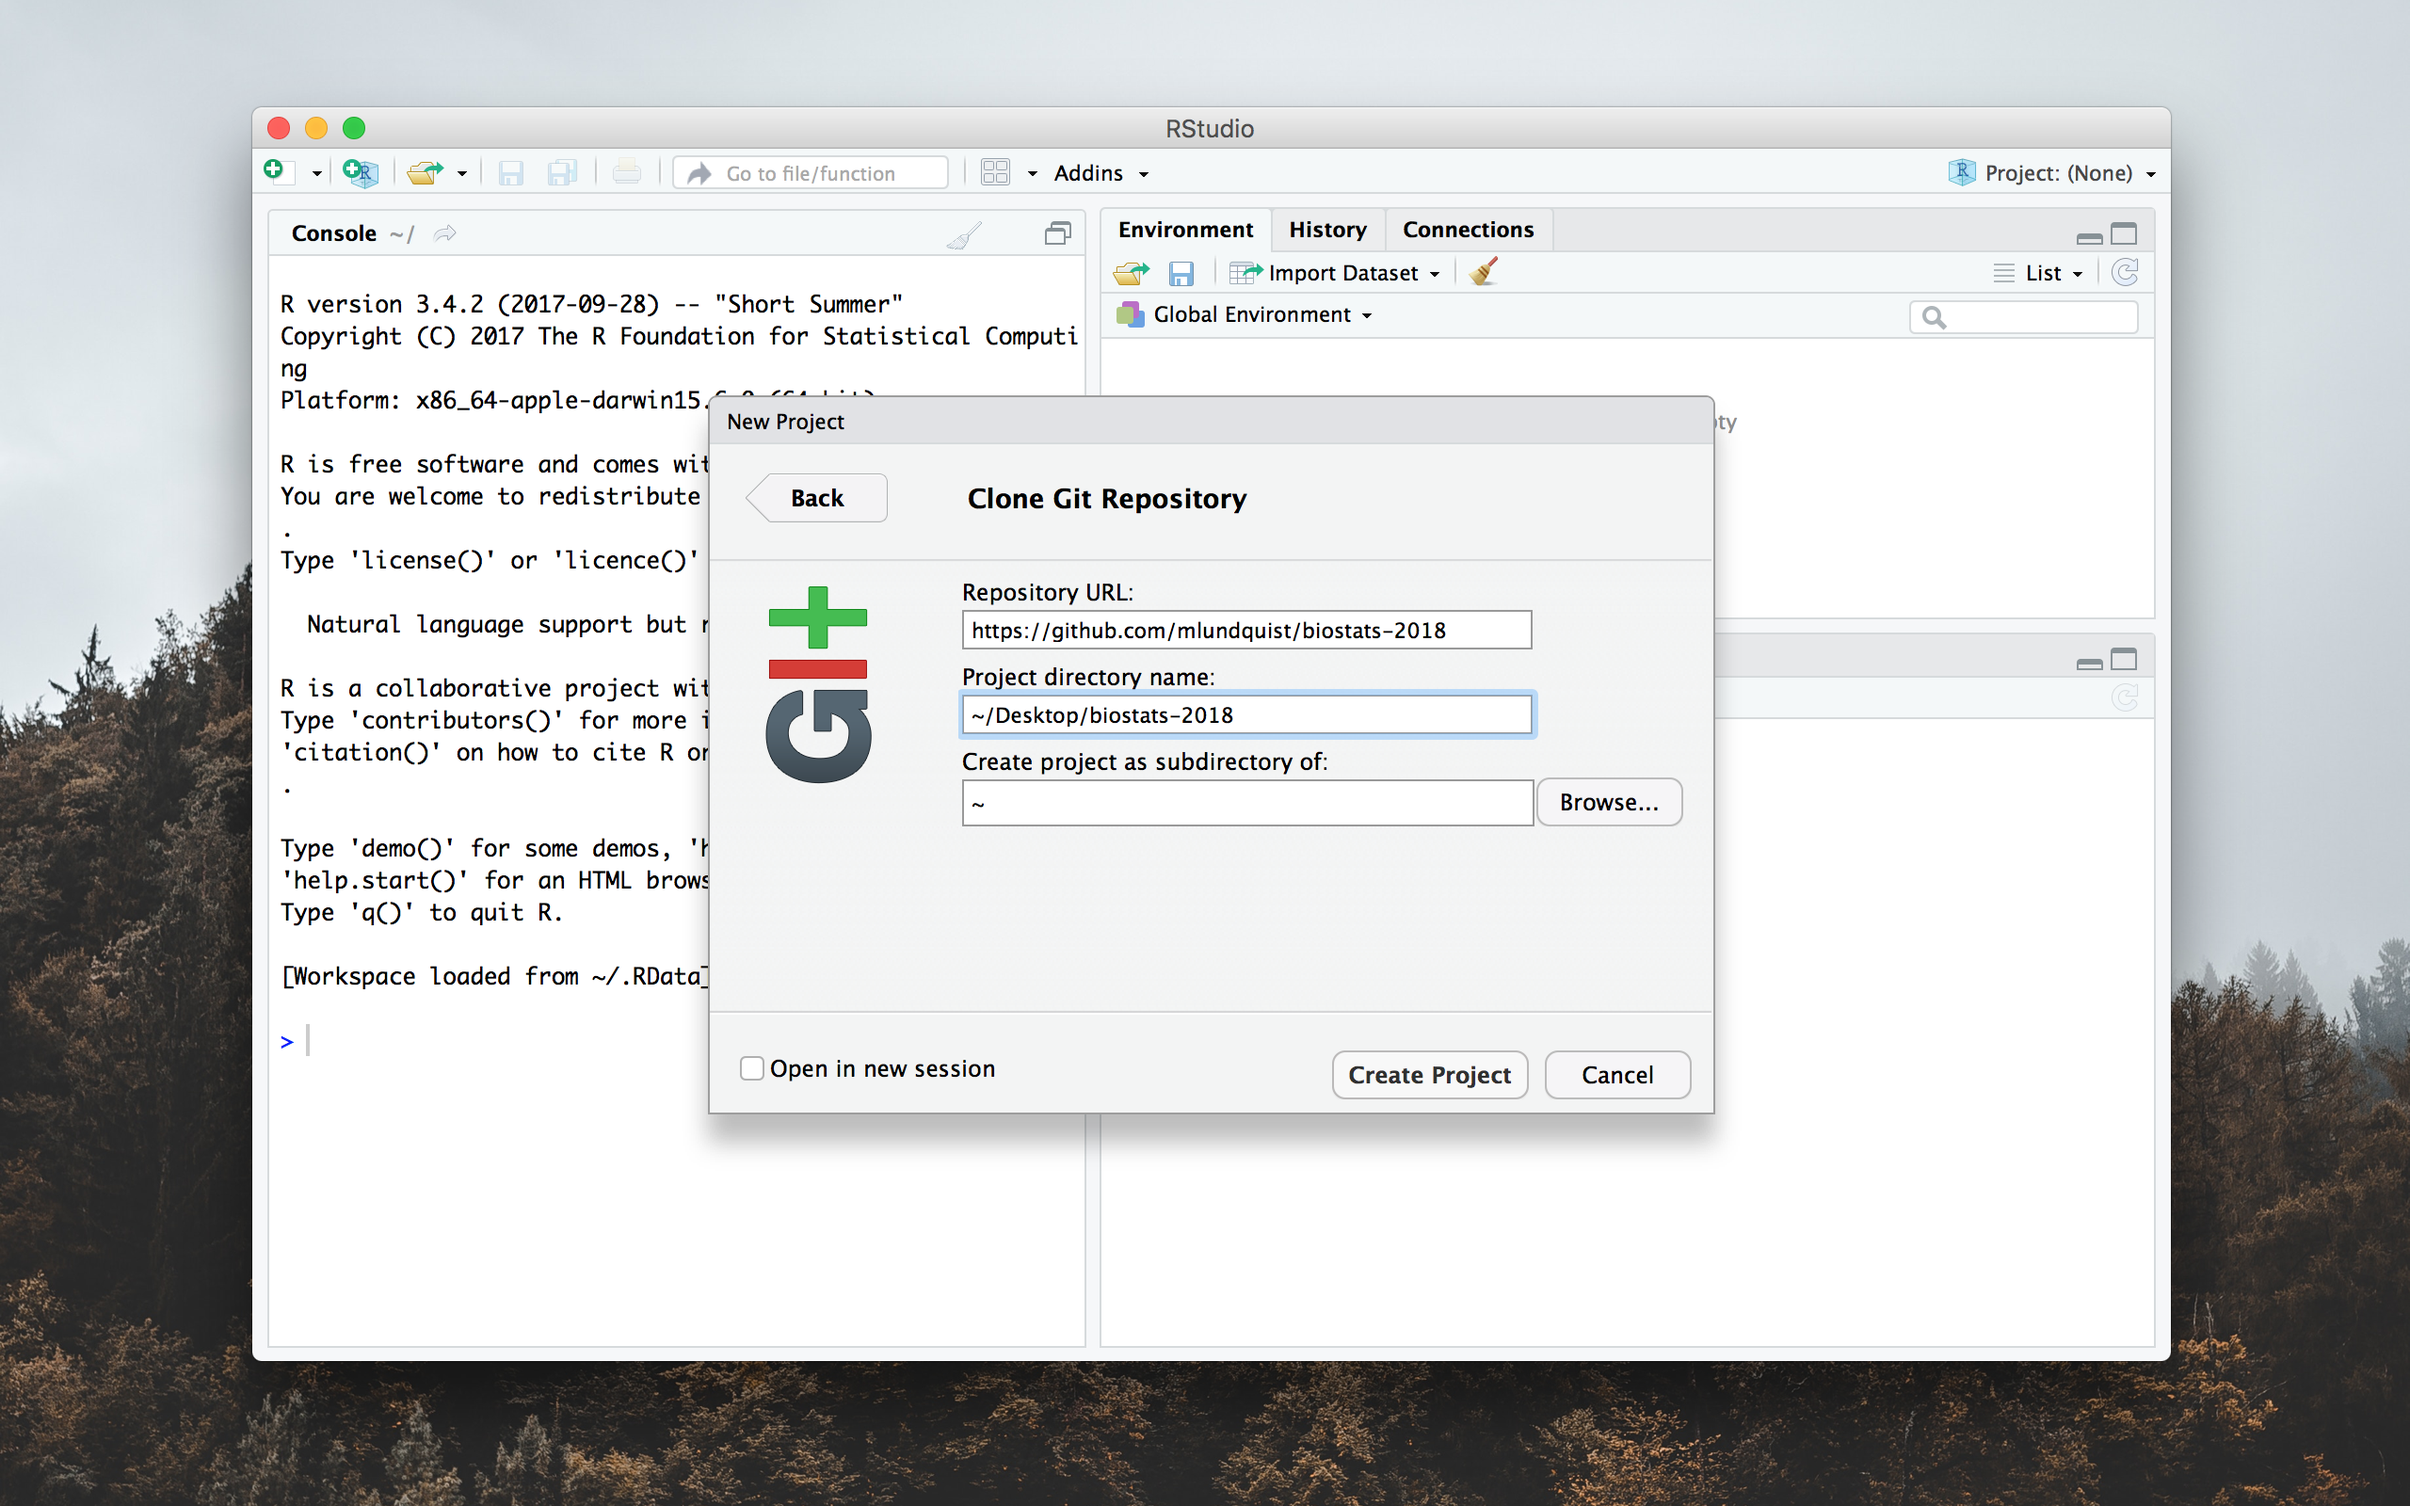
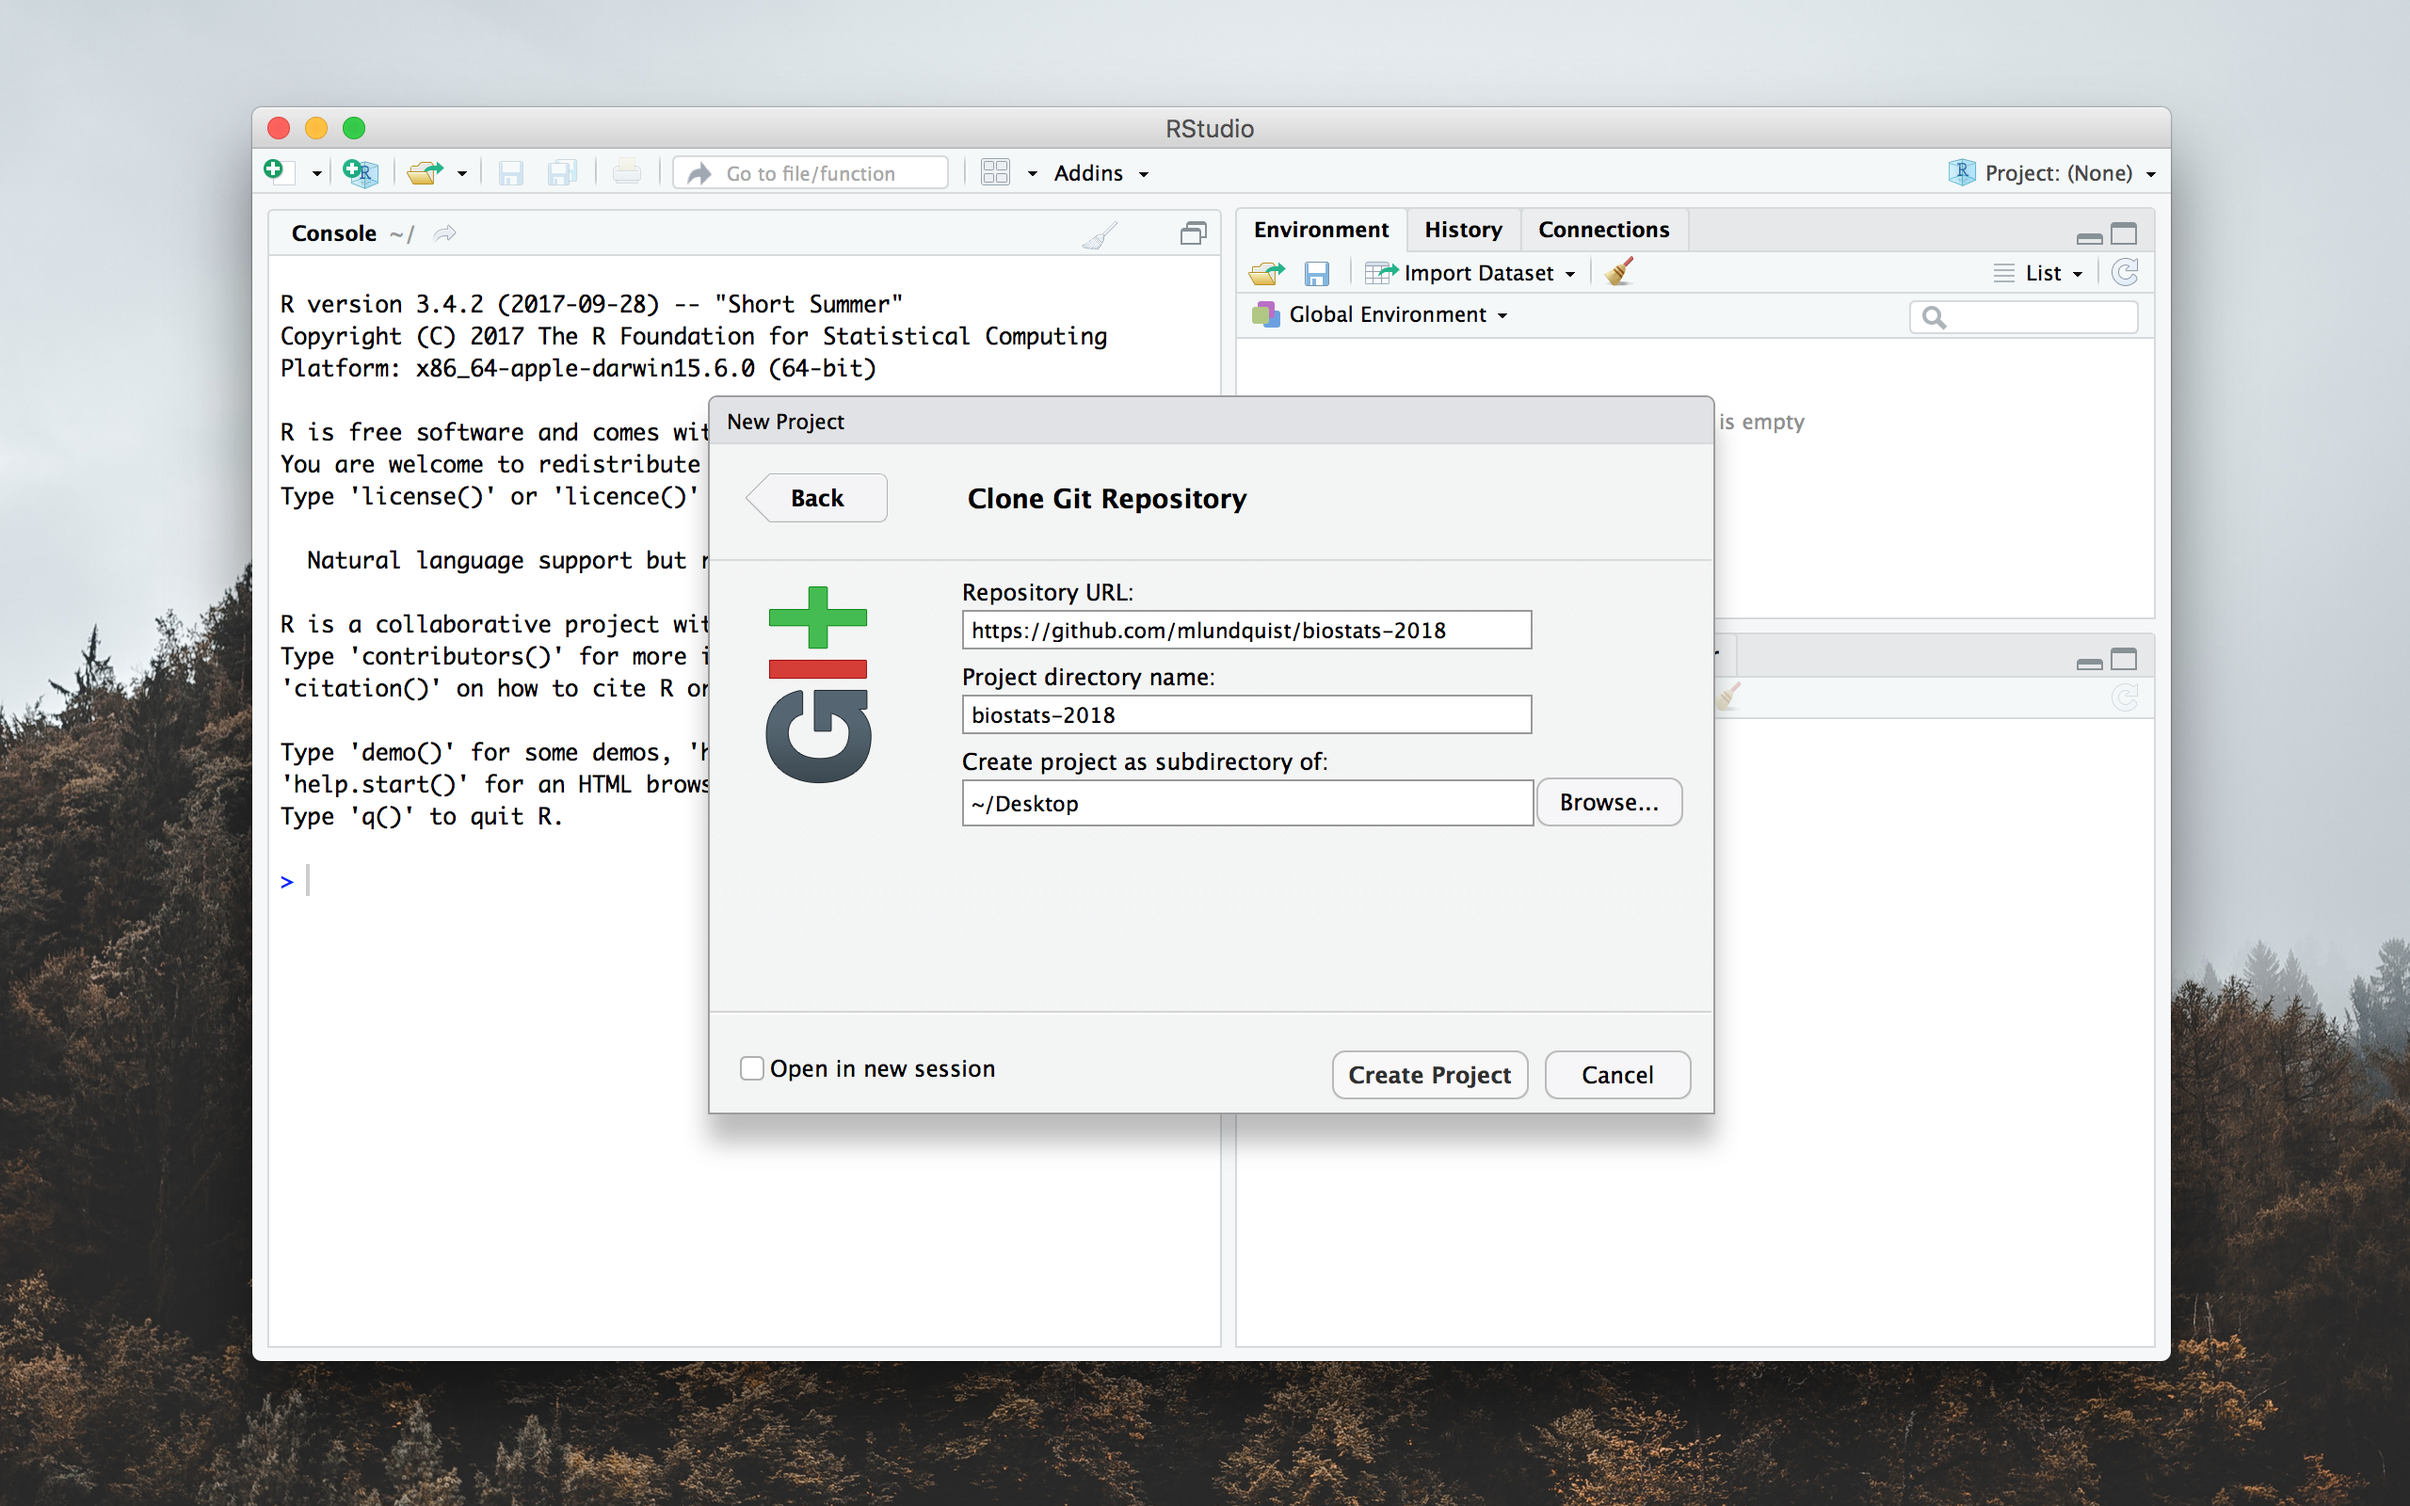
example.r

diff --git a/README.md b/README.md
@@ -23,27 +23,35 @@ Instructions:
 
 ## MacOS
 
-1. Download latest version of <code>R</code> from
-   [cran.r-project.org](https://cran.r-project.org/bin/macosx/R-3.4.3.pkg)
-2. Download the latest version of <code>RStudio</code> from 
-   [www.RStudio.org](https://download1.rstudio.org/RStudio-1.1.383.dmg)
-3. Create a folder for your R code, for example "~/Desktop/biostats-2018"
-4. Open RStudio.app 
-   ![RStudio](screenshots/macos/RStudio.png)
-5. Navigate to <code> File > New Project...</code> 
-   ![New project](screenshots/macos/new_project.png)
-6. Choose <code>Version Control</code>
-   ![Version control](/screenshots/macos/choose_vc.png)
-7. Choose <code>Git</code>
-   ![Git](screenshots/macos/choose_git.png)
-8. Set <code>Repository URL:
-   https://github.com/mlundquist/biostats-2018 </code>
-   and set the <code>Project directory name:
-   ~/Desktop/biostats-2018</code> (or whatever directory you want to
-   use) then select <code>Create Project</code>
+1.  Download latest version of <code>R</code> from
+    [cran.r-project.org](https://cran.r-project.org/bin/macosx/R-3.4.3.pkg)
+2.  Download the latest version of <code>RStudio</code> from 
+    [www.RStudio.org](https://download1.rstudio.org/RStudio-1.1.383.dmg)
+3.  Open RStudio.app 
+    ![RStudio](screenshots/macos/RStudio.png)
+4.  Navigate to <code> File > New Project...</code> 
+    ![New project](screenshots/macos/new_project.png)
+5.  Choose <code>Version Control</code>
+    ![Version control](/screenshots/macos/choose_vc.png)
+6.  Choose <code>Git</code>
+    ![Git](screenshots/macos/choose_git.png)
+7.  Set <code>Repository URL:
+    https://github.com/mlundquist/biostats-2018 </code>
+    and set the <code>Project directory name:
+    biostats-2018</code> and set <code>~/Desktop</code>(or whatever directory you want to
+    use) then select <code>Create Project</code>
    ![Git info](screenshots/macos/git_location.png)
-9. At this point RStudio should download everything from this GitHub
-   repository into your project directory.
+8.  At this point RStudio should download everything from this GitHub
+    repository into your project directory (bottom right).
+    ![Project directory](screenshots/macos/project_directory.png)
+9. You can now navigate folders and open files directly in
+    RStudio. For example: <code>Open example.r</code> (top left)
+    ![Example.r](screenshots/macos/R_example.png)
+10. Frequently, content will be added and updated in the
+    repository. To download the new content, you simply need to
+    <code>Pull</code> the code from the repository. Do this by
+    navigating to <code>Tools > Version Control > Pull Branches</code> 
+    ![Pull branches](screenshots/macos/pull_branches.png)
 
 ## Windows
 
